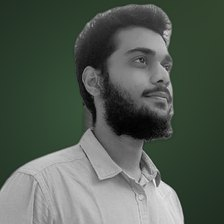
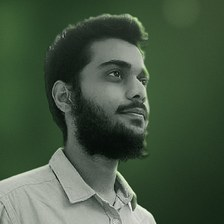
Retouch the founder portrait
Cleaner cutout (BiRefNet portrait model with edge colour decontamination), green-toned grade, lime rim light and light wrap, and a backdrop of Hydrotonic's own towers blurred into bokeh. Features are unchanged.

diff --git a/about.html b/about.html
@@ -129,7 +129,7 @@
       </div>
       <div class="founder">
         <div class="founder-card reveal">
-          <img class="portrait" src="/img/founder.jpg" alt="Portrait of Mohammed Daanish Mulla, founder of Hydrotonic" width="640" height="800">
+          <img class="portrait" src="/img/founder.jpg" alt="Portrait of Mohammed Daanish Mulla, founder of Hydrotonic" width="1000" height="1250">
           <h3>Mohammed Daanish Mulla</h3>
           <p data-i18n="founder_role">Founder, Hydrotonic</p>
         </div>

diff --git a/CHANGELOG.md b/CHANGELOG.md
@@ -5,7 +5,7 @@ All notable changes to hydrotonic.org. Newest first.
 ## 2026-10-23: Hydrotonic's own photos and the founder portrait
 
 - Replaced the stock photos with Hydrotonic's own: rooftop and covered tower farms (hero and About, softened so the build layout is not readable), coriander towers, lettuce, spinach, tomato and coriander in net pots, and roots. One Unsplash photo remains (the farmer portrait in the homepage band).
-- Added the founder portrait to the About page and the homepage teaser, with the original background replaced by an olive backdrop. His face and clothing are unchanged.
+- Added a retouched founder portrait to the About page and the homepage teaser: a BiRefNet portrait cutout with edge colour cleanup, a green-toned grade, a lime rim light and light wrap, set against Hydrotonic's own coriander towers blurred into bokeh. His features are unchanged; only tone and background were edited.
 - The About page gallery now shows Hydrotonic's own photos instead of Instagram embeds, so the site no longer loads anything from Instagram. The Privacy Notice is updated to match.
 - The RAWE entry on the About page now describes the farmer awareness charts and demonstration models prepared in Shirahatti taluk, Gadag district.
 - Removed the old business-card product crops.
